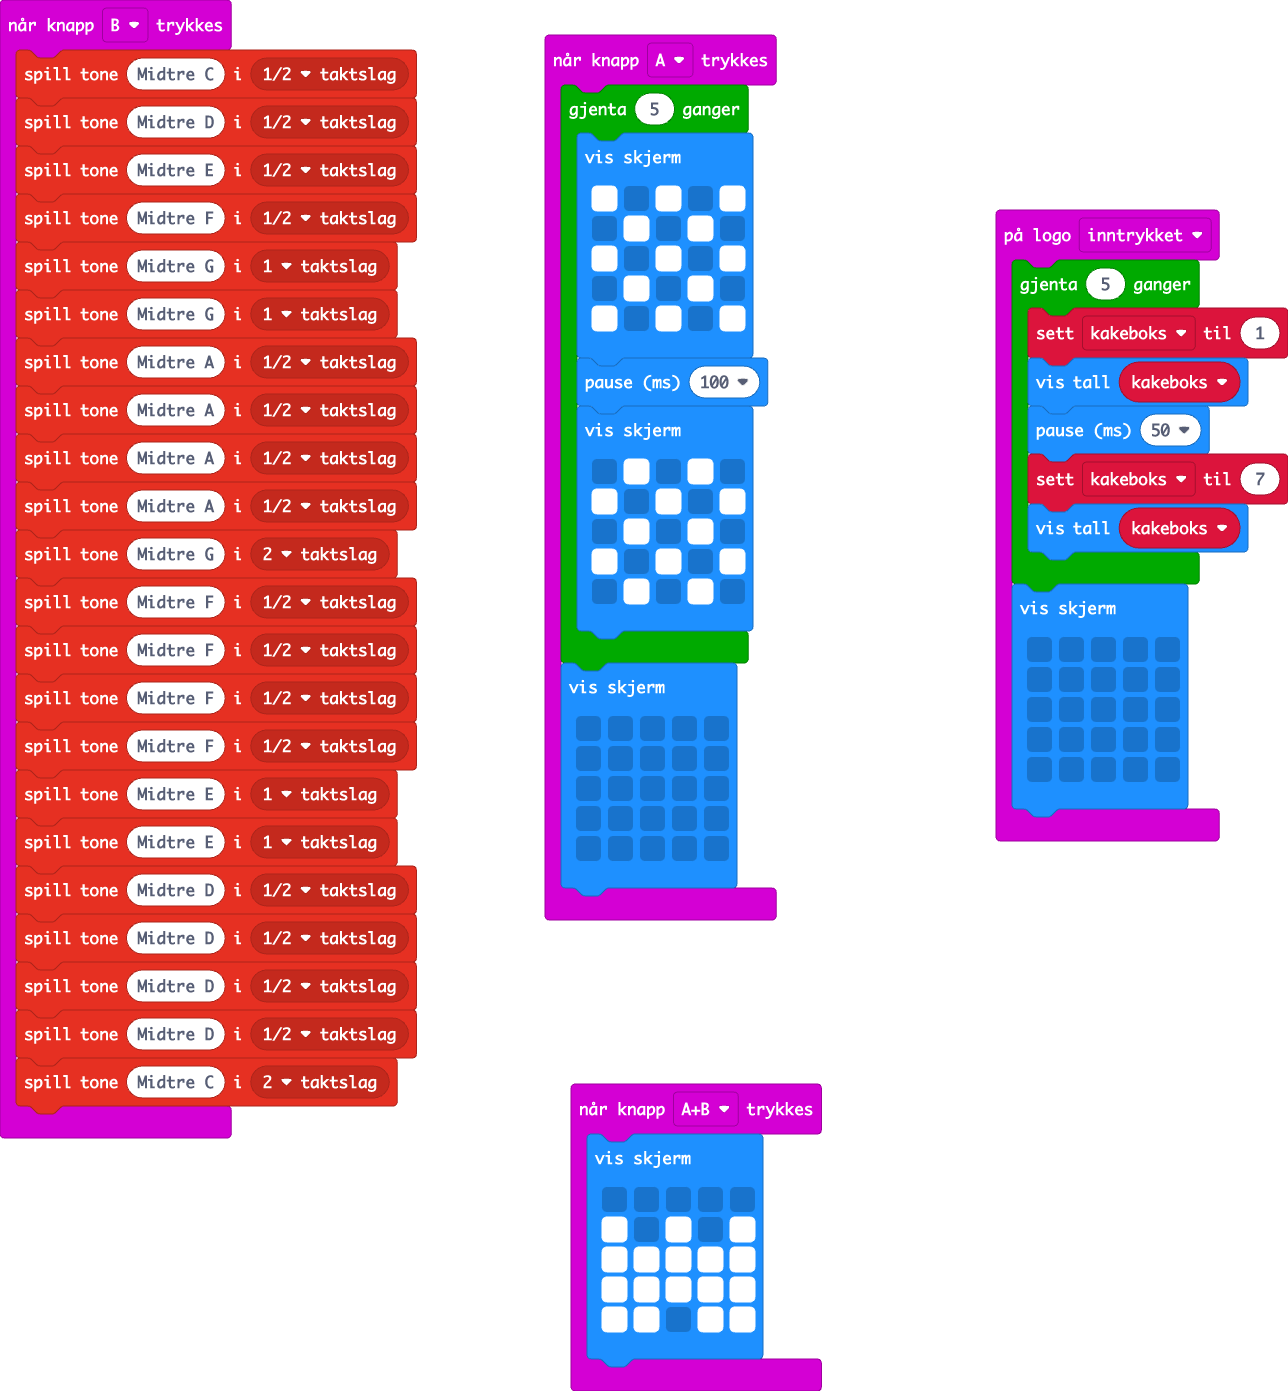
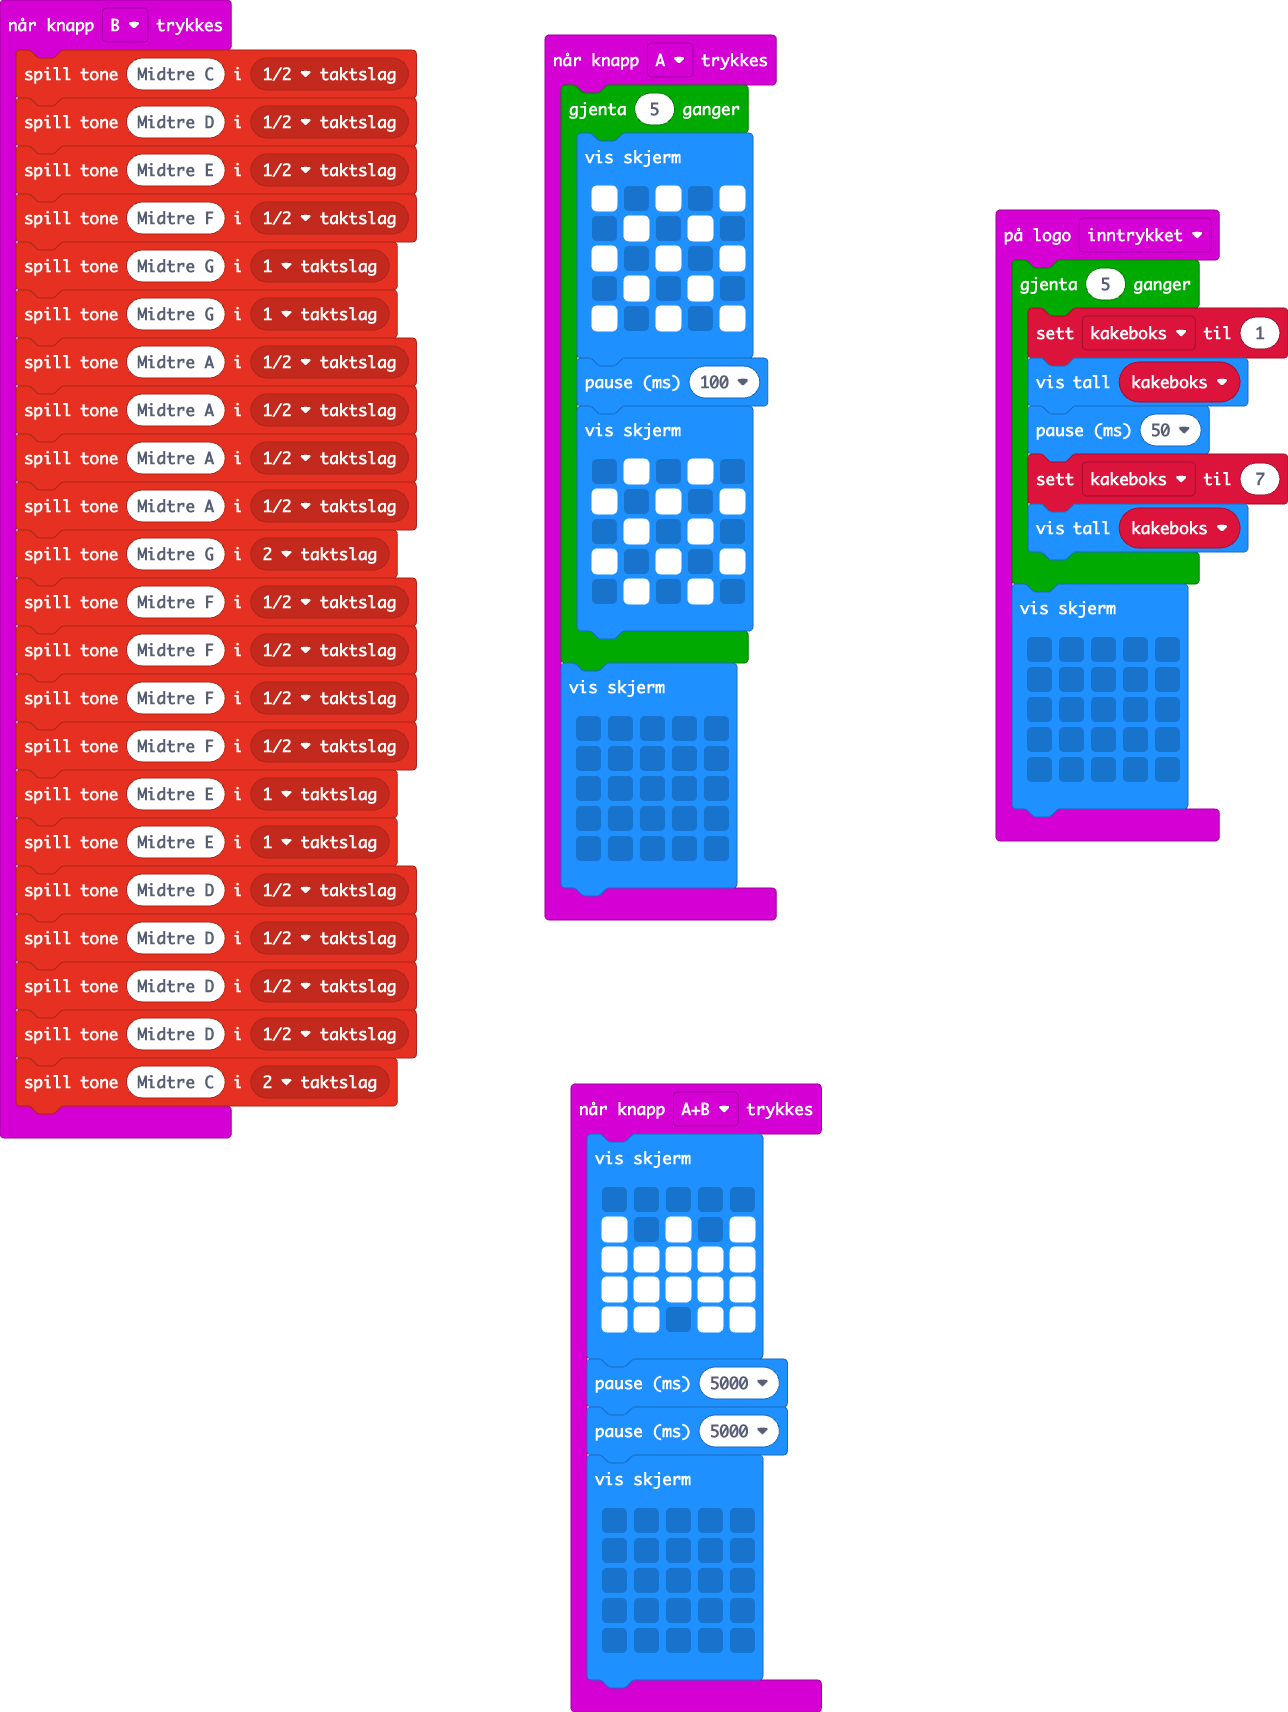
la til blank skjerm

diff --git a/main.ts b/main.ts
@@ -49,6 +49,15 @@ input.onButtonPressed(Button.AB, function () {
         # # # # #
         # # . # #
         `)
+    basic.pause(5000)
+    basic.pause(5000)
+    basic.showLeds(`
+        . . . . .
+        . . . . .
+        . . . . .
+        . . . . .
+        . . . . .
+        `)
 })
 input.onButtonPressed(Button.B, function () {
     music.playTone(262, music.beat(BeatFraction.Half))
